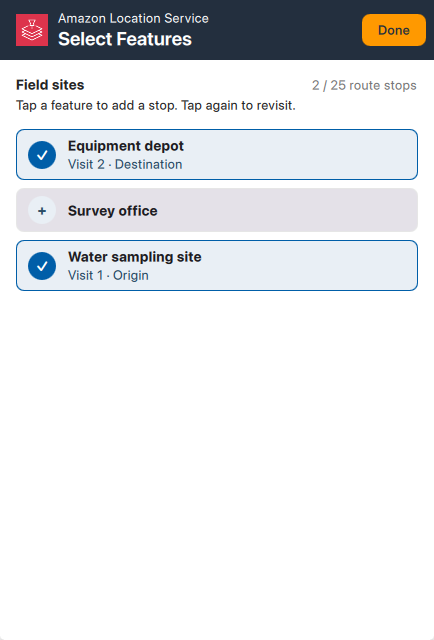
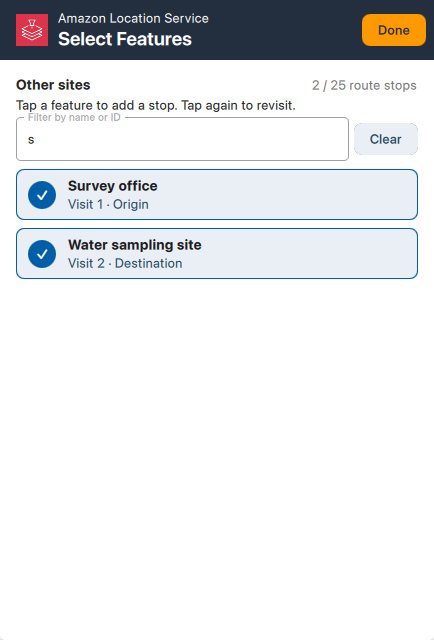
Filter layer features by display name or ID

diff --git a/main.qml b/main.qml
@@ -826,10 +826,7 @@ Item {
                         Layout.fillWidth: true
                         Layout.minimumHeight: plugin.touchHeight
                         enabled: !!layers.currentValue && !plugin.pending
-                        onClicked: {
-                            matches.setFeatures(layers.currentValue, "")
-                            features.open()
-                        }
+                        onClicked: features.open()
                     }
                     SectionTitle {
                         Layout.topMargin: 8
@@ -1101,7 +1098,37 @@ Item {
             })
             return visits
         }
-        onClosed: matches.clear()
+        function refreshList() {
+            const layer = layers.currentValue
+            if (!layer) {
+                matches.clear()
+                return
+            }
+            const term = featureFilter.text.trim()
+            let filter = ""
+            if (term) {
+                // Quote the input as a QGIS string literal; strpos treats wildcards literally.
+                const needle = "lower('" + term.replace(/\\/g, "\\\\").replace(/'/g, "''") + "')"
+                const display = layer.displayExpression || "NULL"
+                const name = "coalesce(nullif(to_string((" + display + ")), ''), to_string($id))"
+                filter = "strpos(lower(" + name + "), " + needle + ") > 0"
+                const idMatch = /^(?:fid\s+)?(-?\d+)$/i.exec(term)
+                if (idMatch) filter += " OR $id = " + idMatch[1]
+            }
+            matches.setFeatures(layer, filter)
+            featureList.positionViewAtBeginning()
+        }
+        onAboutToShow: refreshList()
+        onAboutToHide: filterDelay.stop()
+        onClosed: {
+            featureFilter.clear()
+            matches.clear()
+        }
+        Timer {
+            id: filterDelay
+            interval: 200
+            onTriggered: features.refreshList()
+        }
         ColumnLayout {
             anchors.fill: parent
             spacing: 0
@@ -1128,16 +1155,39 @@ Item {
                 Layout.fillWidth: true
                 Layout.margins: plugin.gutter
                 Layout.topMargin: 4
+                Layout.bottomMargin: 4
                 wrapMode: Text.Wrap
                 text: plugin.atLimit ? "Stop limit reached (" + plugin.maxStops + ")."
                     : "Tap a feature to add a stop. Tap again to revisit."
             }
+            RowLayout {
+                Layout.fillWidth: true
+                Layout.leftMargin: plugin.gutter
+                Layout.rightMargin: plugin.gutter
+                Layout.bottomMargin: 8
+                TextField {
+                    id: featureFilter
+                    Layout.fillWidth: true
+                    placeholderText: "Filter by name or ID"
+                    Accessible.name: placeholderText
+                    onTextChanged: if (features.visible) filterDelay.restart()
+                    onAccepted: Qt.inputMethod.hide()
+                }
+                LocationButton {
+                    text: "Clear"
+                    Accessible.name: "Clear feature filter"
+                    visible: featureFilter.text.length > 0
+                    onClicked: featureFilter.clear()
+                }
+            }
             Label {
                 Layout.leftMargin: plugin.gutter
                 visible: matches.count === 0
-                text: "There are no features in this layer."
+                text: featureFilter.text.trim() ? "No matching features." : "There are no features in this layer."
             }
             ListView {
+                id: featureList
+                enabled: !filterDelay.running
                 Layout.fillWidth: true
                 Layout.fillHeight: true
                 Layout.leftMargin: plugin.gutter

diff --git a/README.md b/README.md
@@ -81,7 +81,9 @@ On the map, tap **Route from current location** to open Route Search with your c
 
 After adding at least two stops, tap **Find route** at the bottom of the map to search in that order. If **Enter settings** appears instead, tap it to enter the Region and API key.
 
-**To add stops from a layer**, open **Add from layer** in Route Search, choose a layer under **Layer for feature selection**, and tap **Select layer features**. Tap a feature card to add it. A checkmark and visit number show where it appears in the route, including stops added on the map or through place search. Tap the same card again to add a return visit. The card then lists both visit numbers. Tap **Done** to return to the route.
+**To add stops from a layer**, open **Add from layer** in Route Search, choose a layer under **Layer for feature selection**, and tap **Select layer features**. In **Filter by name or ID**, type part of the display name or a feature ID (for example, `42` or `FID 42`). Names match regardless of case. Tap **Clear** to show the whole layer again.
+
+Tap a feature card to add it. A checkmark and visit number show its position in the route. You can change the filter to find your next stop and keep the visits already added. Tap the same card again to add a return visit. The card then lists both visit numbers. Tap **Done** to return to the route.
 
 The feature names in the image below are sample data.
 
